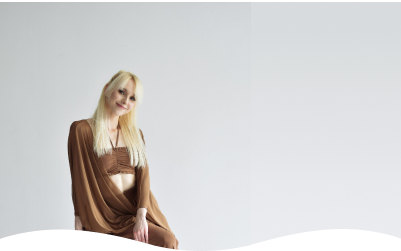
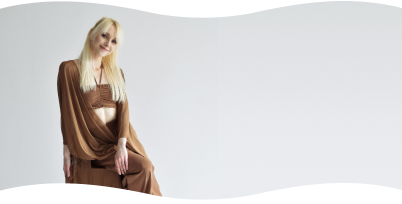
About us page done

diff --git a/empathy-web/src/atomic/molecules/FeedbackCarousel.svelte b/empathy-web/src/atomic/molecules/FeedbackCarousel.svelte
@@ -29,6 +29,24 @@
             text: 'Labai nuoširdi, darbšti ir kūrybinga šokių mokytoja Olivija, kurią labai pamilome. Šokiai dukrai lyg terapija, visada grįžta pilna įspūdžių ir gerai pasitreniravusi. Labai motyvuojantis būrelis vaikams, puiki vieta. ',
             name: 'JOANA',
             personTitle: 'mokinės mama'
+        },
+        {
+            id: 4,
+            text: 'Nuostabi mokytoja, nuostabi atmosfera, nuostabi bendruomenė. Vaikas visuomet noriai laukia treniruotės bei grįžta su šypsena bei motyvacija tobulėjimui.',
+            name: 'AUGUSTĖ',
+            personTitle: 'mokinės mama'
+        },
+        {
+            id: 5,
+            text: 'Nuostabi mokytoja kuri moka sudominti ir įkvėpti vaikus. Didelis Jums Ačiu!',
+            name: 'ELMYRA',
+            personTitle: 'mokinės mama'
+        },
+        {
+            id: 6,
+            text: 'Puikūs šokiai moterims! Įkvepia moteriškumo ir pasitikėjimo!',
+            name: 'AISTĖ',
+            personTitle: 'LADY mokinė'
         }
     ];
 
@@ -40,27 +58,27 @@
         display: flex;
         flex-direction: column;
         justify-content: space-between;
+        gap: 2em;
         align-items: center;
 
         height: 100%;
-        padding: 2em 3em;
+        padding: 2em 3em 0;
 
         text-align: center;
     }
 
     :global(.custom-carousel) {
         aspect-ratio: 402/261;
-        margin-bottom: 2em;
         width: 100%;
         background-image: url("/about/feedback-bg.png");
         background-size: cover;
     }
 
-    :global(.splide__pagination) {
-        display: none;
-    }
+    /*:global(.splide__pagination) {*/
+    /*    display: none;*/
+    /*}*/
 
-    button.splide__arrow{
+    button.splide__arrow {
         height: 22px;
         aspect-ratio: 12 / 22;
         background: none no-repeat center;
@@ -82,7 +100,7 @@
 
 <Splide class="custom-carousel"
         aria-label="Svelte Splide Example"
-        options={ {            type: "loop",}}
+        options={{type: "loop"}}
         hasTrack={false}
 >
     <SplideTrack>
@@ -93,8 +111,7 @@
 
                     <div class="flex flex-col items-center">
                         <img src="icons/heart.png" alt=""/>
-                        <Label size={20}>{item.name}</Label>
-                        <Label size={18}>{item.personTitle}</Label>
+                        <Label size={18}>{item.name} / {item.personTitle}</Label>
                     </div>
                 </div>
             </SplideSlide>

diff --git a/empathy-web/src/atomic/molecules/HeroImage.svelte b/empathy-web/src/atomic/molecules/HeroImage.svelte
@@ -2,19 +2,25 @@
     import Label from "../atoms/Text/Label.svelte";
 
     interface Props {
-        name?: string
+        title?: string
+        sideTextHeader?: string
+        sideText?: string
         imageUrl: string,
         href?: string,
         separator?: boolean
         animationDelay?: number
+        marginTop?: number
     }
 
     let {
-        name,
+        title,
+        sideTextHeader,
+        sideText,
         imageUrl,
         href,
         separator,
-        animationDelay
+        animationDelay,
+        marginTop,
     }: Props = $props();
 </script>
 
@@ -55,6 +61,20 @@
         justify-content: center;
     }
 
+    div.side-text{
+        flex-direction: column;
+        align-items: end;
+        padding-right: 2em;
+    }
+
+    span{
+        display: flex;
+        flex-direction: column;
+
+        text-align: left;
+        width: 170px;
+    }
+
     div.animate {
         /*transform: translateX(-100%);*/
         filter: blur(10px);
@@ -70,7 +90,9 @@
         width: 100%;
 
         background-image: url("/wave-separator.svg");
-        aspect-ratio: 403/30;
+        background-repeat: no-repeat;
+        background-size: cover;
+        aspect-ratio: 402/31;
         z-index: 2;
     }
 
@@ -85,15 +107,24 @@
         style="
         background-image: url(./{imageUrl});
         animation-delay: {animationDelay}ms;
+        margin-top: {marginTop}em;
     "
         class:separator={separator}
-        class:animate="{animationDelay}">
+        class:animate="{animationDelay}"
+        class:side-text={sideText}>
     {#if href}
-        <a href="{href}" aria-label="{name}">
-            <Label font="arsenal" color="white" size={42}>{name}</Label>
+        <a href="{href}" aria-label="{title}">
+            <Label font="arsenal" color="white" size={42}>{title}</Label>
         </a>
     {:else}
-        <Label font="arsenal" color="white" size={42}>{name}</Label>
+        <Label font="arsenal" color="white" size={42}>{title}</Label>
+    {/if}
+
+    {#if sideText}
+        <span class="side-container">
+            <Label font="arsenal" color="black" size={20}>{sideTextHeader}</Label>
+            <Label font="arsenal" color="black" size={20}>{sideText}</Label>
+        </span>
     {/if}
 
 </div>

diff --git a/empathy-web/src/routes/+layout.svelte b/empathy-web/src/routes/+layout.svelte
@@ -4,15 +4,20 @@
     import Footer from "../atomic/organisms/Footer.svelte";
     import {page} from '$app/state';
     import {base} from '$app/paths'
+    import {afterNavigate} from "$app/navigation";
 
     let {children} = $props();
+    let noScroll = $state(true);
 
     const noScrollPages = [
         base,
         base + '/prices'
-    ]
-    const currentPage = page.url.pathname.replace(/\/$/, "");
-    const noScroll = noScrollPages.includes(currentPage);
+    ];
+
+    afterNavigate(() => {
+        const currentPage = page.url.pathname.replace(/\/$/, "");
+        noScroll = noScrollPages.includes(currentPage);
+    });
 </script>
 
 <style>
@@ -26,7 +31,7 @@
     main {
         height: auto;
         margin-top: 14dvh;
-        margin-bottom: 6dvh;
+        margin-bottom: -3dvh;
     }
 
     main.no-scroll {
@@ -41,4 +46,4 @@
     {@render children()}
 </main>
 
-<Footer/>
+<Footer isFixed={noScroll}/>

diff --git a/empathy-web/src/atomic/organisms/Footer.svelte b/empathy-web/src/atomic/organisms/Footer.svelte
@@ -1,16 +1,22 @@
-<script>
-    import Logo from "../atoms/Logo.svelte";
-    import Sandwich from "../atoms/Sandwich.svelte";
-    import NavbarOverlay from "../molecules/NavbarOverlay.svelte";
+<script lang="ts">
     import Label from "../atoms/Text/Label.svelte";
 
+    interface Props {
+        isFixed: boolean
+    }
 
+    let {isFixed}: Props = $props();
+
+    console.log(isFixed);
 </script>
 
 <style>
-    div {
+    div.fixed{
         position: fixed;
         bottom: 0;
+    }
+
+    div {
         width: 100%;
         height: 60px;
         background-image: url("/wave-footer.svg");
@@ -21,7 +27,8 @@
     }
 </style>
 
-<div class="flex items-center justify-center pt-5">
+<div class="flex items-center justify-center pt-5"
+     class:fixed={isFixed}>
     <Label size={10} font="arsenal" color="gray">© empathy, 2025</Label>
 </div>
 

diff --git a/empathy-web/src/routes/about/+page.svelte b/empathy-web/src/routes/about/+page.svelte
@@ -5,7 +5,7 @@
     import Paragraph from "../../atomic/atoms/Text/Paragraph.svelte";
     import FeedbackCarousel from "../../atomic/molecules/FeedbackCarousel.svelte";
 
-    let headingSize = 28;
+    let headingSize = 26;
     let paragraphSize = 14;
 </script>
 
@@ -32,7 +32,10 @@
     </TextContainer>
 
     <HeroImage imageUrl="about/circle.png"/>
-<!--    <HeroImage imageUrl="about/teacher.png"/>-->
+
+    <HeroImage imageUrl="about/teacher.png"
+               sideTextHeader="m o k y t o j a"
+               sideText="Olivija Kazakevičienė"/>
 
     <TextContainer>
         <Paragraph size="{paragraphSize}">
@@ -48,4 +51,6 @@
     </TextContainer>
 
     <FeedbackCarousel/>
+
+    <HeroImage imageUrl="about/group-hug.png" marginTop={-1.2} separator/>
 </div>
